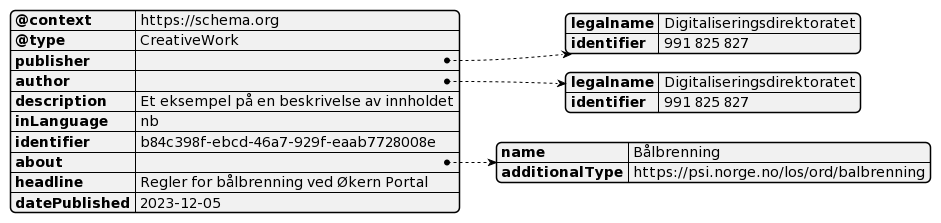
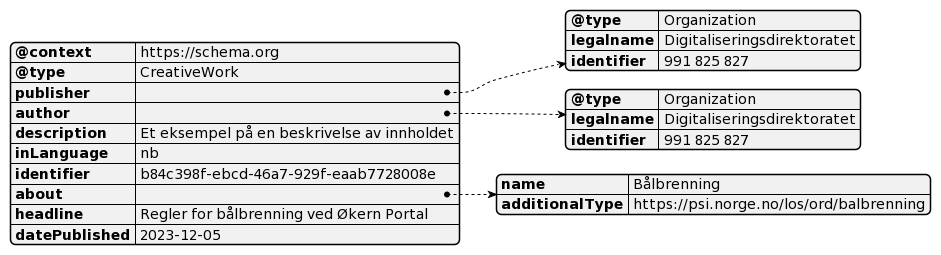
eksempler

Changed region(s): [[0.0, 0.0269, 1.0, 0.9686], [0.5239, 0.296, 0.5547, 0.3229]]

diff --git a/examples/veileder-eksempel-2.html b/examples/veileder-eksempel-2.html
@@ -3,10 +3,12 @@
         "@context": "https://schema.org",
         "@type": "CreativeWork",
         "publisher": {
+            "@type" : "Organization",
             "legalname" : "Digitaliseringsdirektoratet",
             "identifier" : "991 825 827" 
         },   
         "author": {
+            "@type" : "Organization",
             "legalname" : "Digitaliseringsdirektoratet",
             "identifier" : "991 825 827" 
         },

diff --git a/README.md b/README.md
@@ -12,8 +12,9 @@ Bruk gjerne [issues](https://github.com/rockphotog/hida/issues) for å spille in
 
 _Felles diskusjon_
 
+- [ ] Kun mulig med én "about" - løsning? Nederste? Krever strengt hierarki, lite brukervennlig
 - [ ] Forslag/diskusjon: dekningsområde -> Thing/Intangible/Service/areaServed(/eligibleRegion), mulig kobles på under "about"
-- [ ] Skal de kunne kodes med f.eks. flere koder på nivå 2 (undertema) og 3 (emneord) ?
+- [ ] Skal de kunne kodes med f.eks. flere koder på nivå 2 (undertema) og 3 (emneord)?
 - [ ] Kan "Produsent" hete "Forfatter"? Mener kanskje likevel "Produsent" er videre, men en fordel.
 - [ ] "Name"(text) mulig for "tema/about" - "kjekt å ha" eller "smør på flesk"? Skal leses av maskiner, ikke folk. Fordel: Lesbarhet. Ulempe: Presedens ved feil.  
 - [ ] date og/eller dateTime på hhv datePublished/dateModifies. Tror det er frivillig, foreslås 'både og'  
